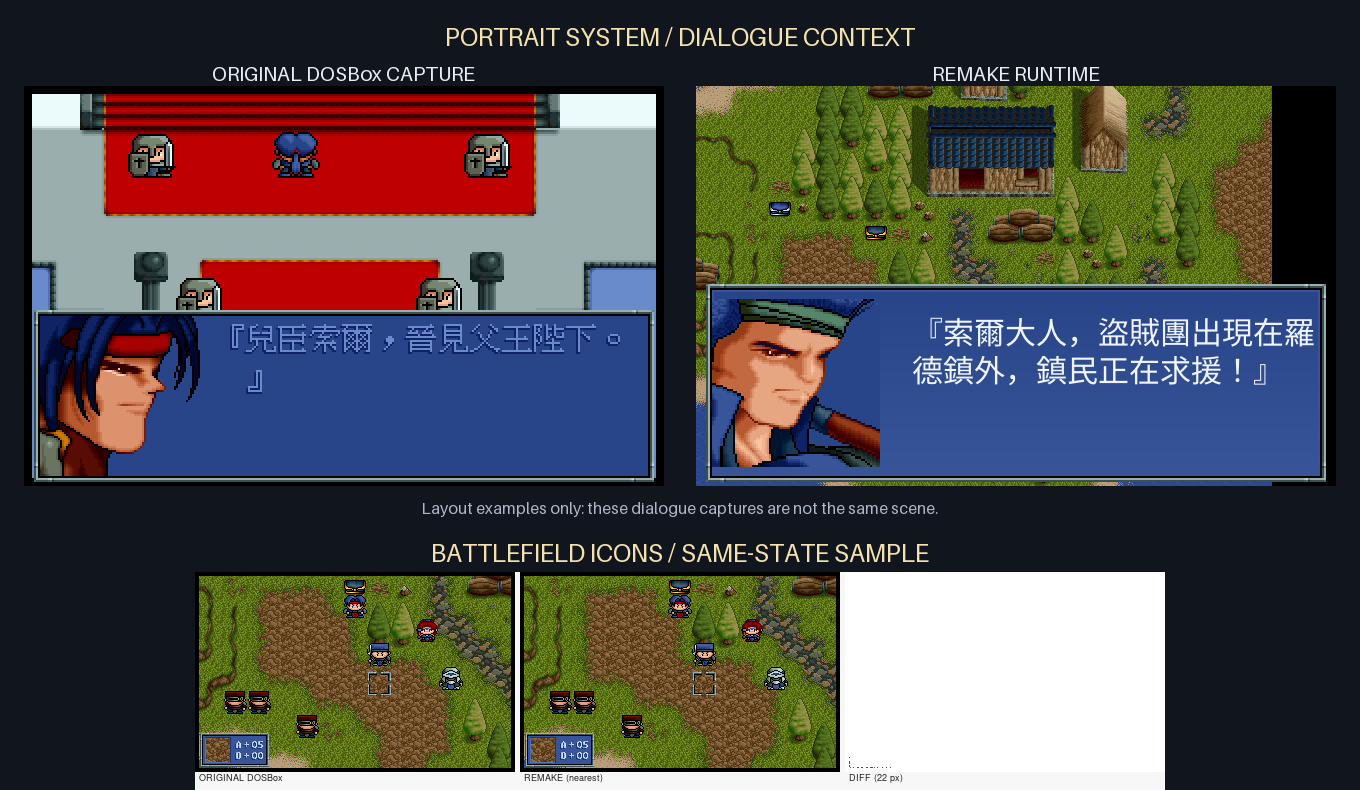
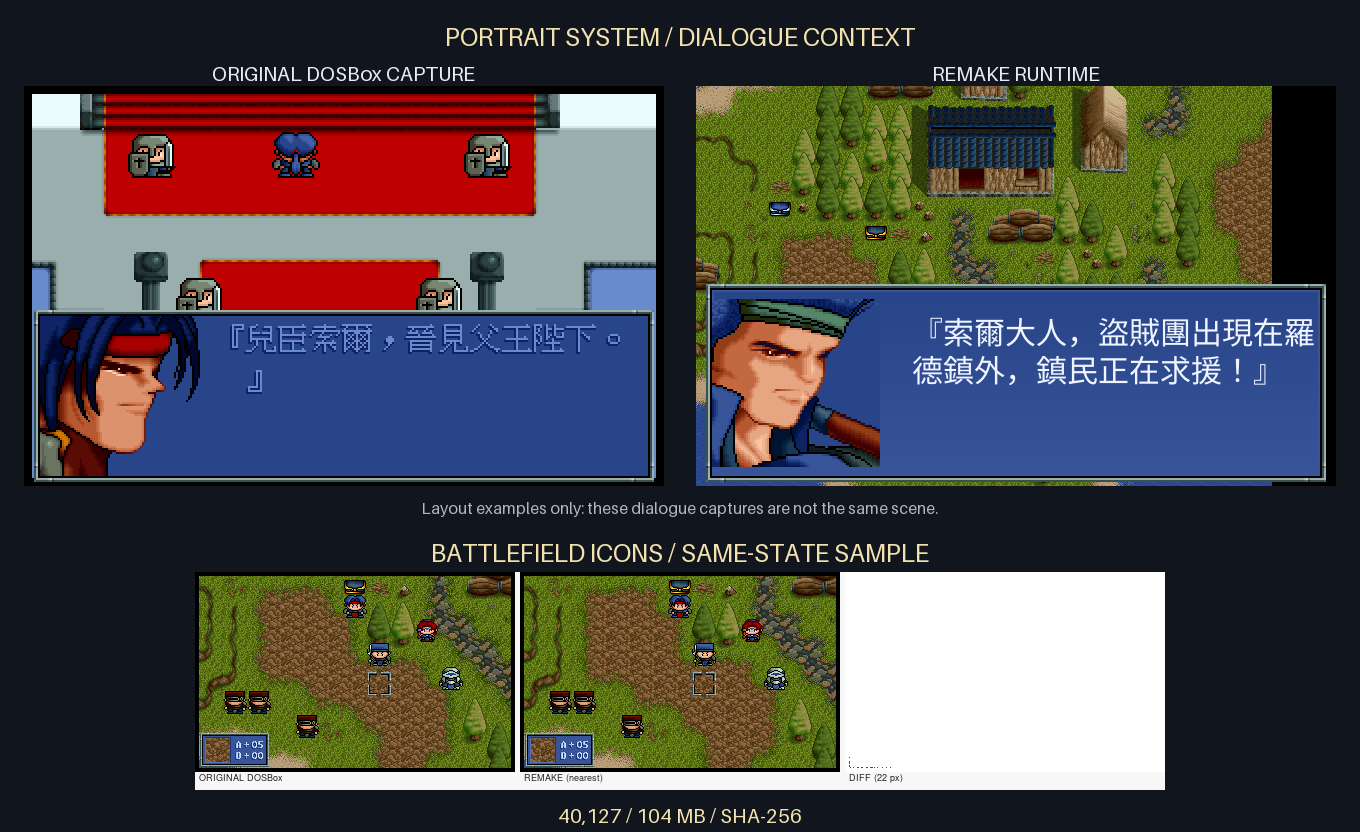
docs: record private asset preservation

diff --git a/tools/build_readme_visual_overview.py b/tools/build_readme_visual_overview.py
@@ -45,7 +45,7 @@ def main() -> None:
         FIGURES / "battle-field-ch01-scoped-compare-20260810.png"
     ).convert("RGB")
 
-    canvas = Image.new("RGB", (1360, 790), "#11151d")
+    canvas = Image.new("RGB", (1360, 832), "#11151d")
     draw = ImageDraw.Draw(canvas)
     title_font = font(25)
     label_font = font(20)
@@ -68,6 +68,13 @@ def main() -> None:
     centered(draw, (0, 528, 1360, 566), "BATTLEFIELD ICONS / SAME-STATE SAMPLE",
              title_font, "#f3e2ad")
     canvas.paste(battle, ((1360 - battle.width) // 2, 572))
+    centered(
+        draw,
+        (0, 796, 1360, 828),
+        "40,127 / 104 MB / SHA-256",
+        label_font,
+        "#f3e2ad",
+    )
     canvas.save(OUTPUT, optimize=True)
 
 

diff --git a/docs/knowledge-base/91-worklist.md b/docs/knowledge-base/91-worklist.md
@@ -20,7 +20,7 @@
 | 順序 | 工作 | 現況 | 下一個可驗收結果 |
 |---:|---|---|---|
 | A1 | 編輯器 canonical schema 與穩定身份層 | `SPEC-READY`：campaign／scenario／story／animation 四份 machine-readable Schema 與跨檔 validator 已建立；穩定 ID、戰役轉場、mouth animation、素材 `asset_id`、重複 ID 及受控 extensions 有11項 Docker 測試。現有資料仍是 legacy 單向 loader，尚未轉入 canonical 格式 | 加入 legacy import 診斷、canonical writer 與 load→write→reload 測試；再建立 character identity 文件，分離連結 portrait／map sprite／battle animation，達 `DATA-READY` 後才接編輯器 UI |
-| A2 | 原版素材全量分離與清冊 | `DATA-PARTIAL／LEDGER-DATA-READY`：manifest v2現有39,825筆asset與1,005筆source-resource ledger；901 standardized、11個零長度confirmed-empty、0 blocked、93 unknown。FDSHAP control、終局FDFIELD #91/#92、map23 FDFIELD #69、FDOTHER #1／#6完整bank、標題FDOTHER #77／#78音效、#79兩幀raw pending-code呈現、#102短暫調色盤及15首音樂已建立可驗證關聯；可版控摘要綁定完整manifest SHA-256。93筆unknown分布為FDFIELD 79、FDMUS 5、FDOTHER 9，不等同93個decoder缺口 | 將93筆unknown與production consumer及既有runtime標準資料交叉比對；FDOTHER #47／#49尚無可證實正式consumer，維持unknown，不為減數量猜接；改選有玩家consumer的下一筆跨容器缺口 |
+| A2 | 原版素材全量分離與清冊 | `DATA-PARTIAL／LEDGER-DATA-READY`：manifest v2現有39,825筆asset與1,005筆source-resource ledger；901 standardized、11個零長度confirmed-empty、0 blocked、93 unknown。完整本機包有40,127個實體檔案、約104 MB，已於2026-08-29以私人庫保存；公開庫只留工具、摘要與經審查總攬圖。FDSHAP control、終局FDFIELD #91/#92、map23 FDFIELD #69、FDOTHER #1／#6完整bank、標題FDOTHER #77／#78音效、#79兩幀raw pending-code呈現、#102短暫調色盤及15首音樂已建立可驗證關聯；可版控摘要綁定完整manifest SHA-256。93筆unknown分布為FDFIELD 79、FDMUS 5、FDOTHER 9，不等同93個decoder缺口 | 將93筆unknown與production consumer及既有runtime標準資料交叉比對；建立本機完整版組裝器，驗證私人pack、外部runtime catalog、封包內容與SHA-256；FDOTHER #47／#49維持unknown，不為減數量猜接 |
 | A3 | runtime 移除 `.DAT` 即時讀取 | `RUNTIME-E1-PARTIAL`：FDTXT、字型、FDICON、FDSHAP、ANI、FDFIELD主要玩家路徑，以及城鎮、商店、標題、LOAD、整備、教會與戰場初始化均已遷移。19個巢狀音效bank已分離；標題#77選單音與ANI #1的#78 companion均由正式runtime消費，#78在第一幀啟動並於結束／略過停止。BGM只從完整驗證的30份OGG catalog解析，物理攻擊亦由分離FIGANI provider原子預檢 | 以version 2 ledger的93筆unknown交叉核對production caller；已具標準資料但缺manifest bridge者只補provenance，不重做decoder。只有確定仍有正式archive consumer且沒有標準輸出，才開新RE→spec→runtime切片 |
 | A4 | 現代美術主題 | `NOT-STARTED／TRACKED`：截至2026-08-29尚未產生可驗收的新頭像、戰場sprite／tile或介面框；目前只有原版分離素材與既有重製畫面，不得冒稱現代美術已開工 | 第一批只做可丟棄原版／現代對照prototype：同一角色頭像、同一戰場單位＋地形、同一對話／戰鬥HUD介面框各一組；保存來源asset ID、風格prompt、輸出雜湊與實機合成截圖，由使用者選定方向後才建立theme catalog並批量生產 |
 | A5 | 繁中／簡中／日文／英文與可調文字顯示 | `DECISION-CONFIRMED／SPEC-READY`：使用者已確認繁中`zh-Hant`、簡中`zh-Hans`、日文`ja`、英文`en`四語官方內建，並允許同一受控契約的外部社群語言包。可重跑清冊現有5,233筆來源候選／2,497個互異繁中字串／150筆含變數；80筆Go待審常值已由同一SHA綁定為31玩家可見、42內部診斷、3開發、4未知。原版FDTXT證據保持唯讀，語言與字級只存`fd2_settings.json`，不進戰役save | 把候選合併為character／entity／line穩定ID，建立locale／layout／community-pack schema、完整key／變數／字形／安全路徑validator與最長字串prototype；再接runtime四語切換。非繁中忠實主題範圍與文字縮放界線仍由prototype決定 |
